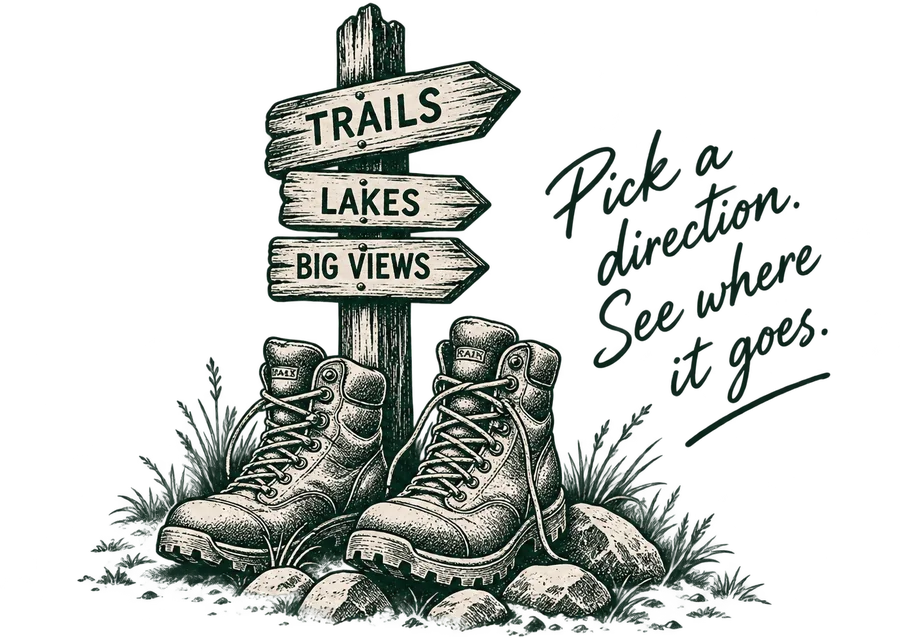
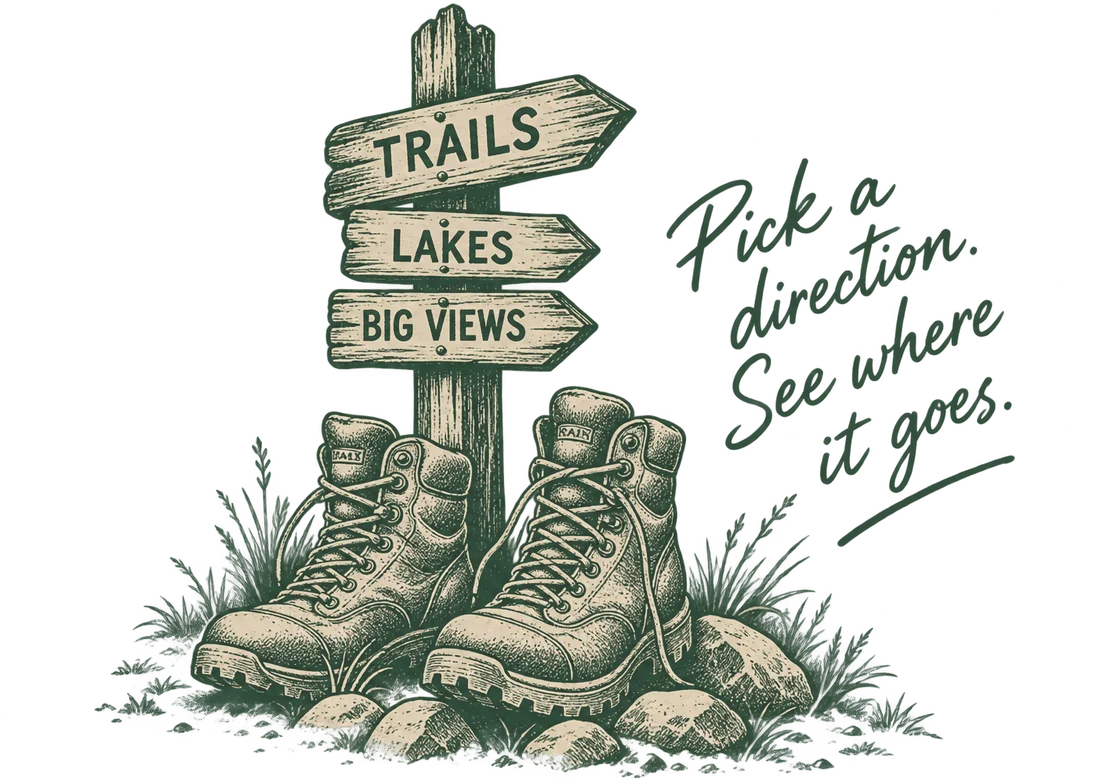
Add files via upload

diff --git a/css/site.css b/css/site.css
@@ -1491,7 +1491,7 @@ body{overscroll-behavior-y:none;background:var(--paper);
 .trailspread .t-route{display:none;width:100%;height:auto;color:var(--gold);
   opacity:.75;grid-row:3}
 .trail-art{display:block;width:100%;height:auto;position:relative;z-index:1}
-.t-signpost{max-width:clamp(190px,26vw,400px)}
+.t-signpost{max-width:clamp(260px,36vw,560px)}
 .t-worth   {max-width:clamp(130px,17vw,250px)}
 .trail-copy{max-width:34ch;position:relative;z-index:1}
 .trail-copy h3{font-family:var(--display);font-weight:400;text-transform:uppercase;
@@ -1504,30 +1504,30 @@ body{overscroll-behavior-y:none;background:var(--paper);
 /* the two prints leant the same way, which read as mechanical. The Rainbow
    print now turns anti-clockwise against the Beef Trail print's clockwise
    lean, on top of the tilt already drawn into each file. */
-.rr-photo{max-width:clamp(150px,20vw,290px);transform:rotate(-2.4deg)}
-.bt-photo{max-width:clamp(115px,12.5vw,180px);transform:rotate(1.9deg)}
+/* the Rainbow print turns hard anti-clockwise against the Beef print's small
+   clockwise lean. At 20deg it swings about 48px above and below its own box,
+   so it carries margin to keep that clear of the route band underneath. */
+.rr-photo{max-width:clamp(180px,24vw,350px);transform:rotate(-20deg)}
+.bt-photo{max-width:clamp(140px,15.5vw,220px);transform:rotate(1.9deg)}
 
 @media (min-width:900px){
-  /* Where the height actually goes: each grid row is as tall as its TALLEST
-     item, so a short text block beside a tall graphic leaves dead space
-     alongside it — 115px in row 1, 117px in row 2, 132px in row 4 at 1440.
-     Halving the gaps between rows, as the previous pass did, could never fix
-     that. The signpost now SPANS rows 1 and 2, so it stops forcing row 1 to
-     its own height, and it sits alongside the Rainbow cluster rather than
-     alone in the corner. The Beef print comes down a little and the two copy
-     blocks are pulled up into the space beside the taller graphics. */
-  .trailspread .t-route{display:block;height:clamp(52px,6vw,96px)}
-  .trailspread .t-intro   {grid-column:2/7;grid-row:1}
-  .trailspread .t-signpost{grid-column:10/13;grid-row:1/3;justify-self:end;
-                           align-self:start;margin-top:clamp(-.5rem,-1vw,0rem)}
-  .trailspread .t-worth   {grid-column:2/4;grid-row:2;align-self:center;
+  /* Photographs pushed out to the outer columns, both paragraphs pulled into
+     the middle between them, and the two rows brought close together so the
+     prints sit almost opposite each other rather than far apart down the page.
+     The signpost is much larger now and takes the upper right on its own. */
+  .trailspread .t-route{display:block;height:clamp(40px,4.5vw,72px)}
+  .trailspread .t-worth   {grid-column:1/3;grid-row:1;align-self:end;
+                           margin-bottom:clamp(-1rem,-2vw,-.4rem)}
+  .trailspread .t-intro   {grid-column:3/8;grid-row:1;align-self:center}
+  .trailspread .t-signpost{grid-column:8/13;grid-row:1;justify-self:end;
                            margin-top:clamp(-1rem,-2vw,-.4rem)}
-  .trailspread .rr-photo  {grid-column:4/7;grid-row:2;margin-top:clamp(0rem,.6vw,.5rem)}
-  .trailspread .rr-copy   {grid-column:7/10;grid-row:2;align-self:center}
-  .trailspread .t-route   {grid-column:4/10;grid-row:3;margin-top:clamp(0rem,.5vw,.5rem)}
-  .trailspread .bt-copy   {grid-column:4/8;grid-row:4;align-self:center}
-  .trailspread .bt-photo  {grid-column:8/11;grid-row:4;
-                           margin-top:clamp(-1.4rem,-2vw,-.6rem)}
+  .trailspread .rr-photo  {grid-column:2/6;grid-row:2;justify-self:start;
+                           margin:clamp(2.6rem,5vw,3.4rem) 0}
+  .trailspread .rr-copy   {grid-column:6/10;grid-row:2;align-self:center}
+  .trailspread .t-route   {grid-column:4/10;grid-row:3}
+  .trailspread .bt-copy   {grid-column:6/10;grid-row:4;align-self:center}
+  .trailspread .bt-photo  {grid-column:10/13;grid-row:4;justify-self:end;
+                           margin-top:clamp(-2rem,-3vw,-1rem)}
 }
 
 @media (max-width:899px){

diff --git a/things-to-do.html b/things-to-do.html
@@ -33,7 +33,7 @@
 <link rel="preconnect" href="https://fonts.googleapis.com">
 <link rel="preconnect" href="https://fonts.gstatic.com" crossorigin>
 <link href="https://fonts.googleapis.com/css2?family=Bevan&family=Oswald:wght@400;500;600&family=Lora:ital,wght@0,400;0,500;0,600;1,400&display=swap" rel="stylesheet">
-<link rel="stylesheet" href="css/site.css?v=8a21ca51">
+<link rel="stylesheet" href="css/site.css?v=7f0f862d">
 
 <script type="application/ld+json">
 {
@@ -96,7 +96,7 @@
           in it.</p>
       </div>
 
-      <img class="trail-art t-signpost" src="images/trail-signpost.webp" width="900" height="638"
+      <img class="trail-art t-signpost" src="images/trail-signpost.webp" width="1100" height="780"
            loading="lazy" decoding="async"
            alt="A weathered wooden signpost pointing to trails, lakes and big views, with a pair
                 of hiking boots at its foot. Pick a direction. See where it goes.">
@@ -495,6 +495,6 @@
 
 
 
-<script src="js/site.js?v=8a21ca51"></script>
+<script src="js/site.js?v=7f0f862d"></script>
 </body>
 </html>

diff --git a/lodge/blue-heron.html b/lodge/blue-heron.html
@@ -33,7 +33,7 @@
 <link rel="preconnect" href="https://fonts.googleapis.com">
 <link rel="preconnect" href="https://fonts.gstatic.com" crossorigin>
 <link href="https://fonts.googleapis.com/css2?family=Bevan&family=Oswald:wght@400;500;600&family=Lora:ital,wght@0,400;0,500;0,600;1,400&display=swap" rel="stylesheet">
-<link rel="stylesheet" href="../css/site.css?v=8a21ca51">
+<link rel="stylesheet" href="../css/site.css?v=7f0f862d">
 
 <script type="application/ld+json">
 {
@@ -216,6 +216,6 @@
   <p class="lb-count" id="lb-count"></p>
 </div>
 
-<script src="../js/site.js?v=8a21ca51"></script>
+<script src="../js/site.js?v=7f0f862d"></script>
 </body>
 </html>

diff --git a/lodge/camping.html b/lodge/camping.html
@@ -33,7 +33,7 @@
 <link rel="preconnect" href="https://fonts.googleapis.com">
 <link rel="preconnect" href="https://fonts.gstatic.com" crossorigin>
 <link href="https://fonts.googleapis.com/css2?family=Bevan&family=Oswald:wght@400;500;600&family=Lora:ital,wght@0,400;0,500;0,600;1,400&display=swap" rel="stylesheet">
-<link rel="stylesheet" href="../css/site.css?v=8a21ca51">
+<link rel="stylesheet" href="../css/site.css?v=7f0f862d">
 
 <script type="application/ld+json">
 {
@@ -198,6 +198,6 @@
   <p class="lb-count" id="lb-count"></p>
 </div>
 
-<script src="../js/site.js?v=8a21ca51"></script>
+<script src="../js/site.js?v=7f0f862d"></script>
 </body>
 </html>

diff --git a/lodge/chilcotin.html b/lodge/chilcotin.html
@@ -33,7 +33,7 @@
 <link rel="preconnect" href="https://fonts.googleapis.com">
 <link rel="preconnect" href="https://fonts.gstatic.com" crossorigin>
 <link href="https://fonts.googleapis.com/css2?family=Bevan&family=Oswald:wght@400;500;600&family=Lora:ital,wght@0,400;0,500;0,600;1,400&display=swap" rel="stylesheet">
-<link rel="stylesheet" href="../css/site.css?v=8a21ca51">
+<link rel="stylesheet" href="../css/site.css?v=7f0f862d">
 
 <script type="application/ld+json">
 {
@@ -218,6 +218,6 @@
   <p class="lb-count" id="lb-count"></p>
 </div>
 
-<script src="../js/site.js?v=8a21ca51"></script>
+<script src="../js/site.js?v=7f0f862d"></script>
 </body>
 </html>

diff --git a/lodge/den-suite.html b/lodge/den-suite.html
@@ -33,7 +33,7 @@
 <link rel="preconnect" href="https://fonts.googleapis.com">
 <link rel="preconnect" href="https://fonts.gstatic.com" crossorigin>
 <link href="https://fonts.googleapis.com/css2?family=Bevan&family=Oswald:wght@400;500;600&family=Lora:ital,wght@0,400;0,500;0,600;1,400&display=swap" rel="stylesheet">
-<link rel="stylesheet" href="../css/site.css?v=8a21ca51">
+<link rel="stylesheet" href="../css/site.css?v=7f0f862d">
 
 <script type="application/ld+json">
 {
@@ -211,6 +211,6 @@
   <p class="lb-count" id="lb-count"></p>
 </div>
 
-<script src="../js/site.js?v=8a21ca51"></script>
+<script src="../js/site.js?v=7f0f862d"></script>
 </body>
 </html>

diff --git a/lodge/eagle-cabin.html b/lodge/eagle-cabin.html
@@ -33,7 +33,7 @@
 <link rel="preconnect" href="https://fonts.googleapis.com">
 <link rel="preconnect" href="https://fonts.gstatic.com" crossorigin>
 <link href="https://fonts.googleapis.com/css2?family=Bevan&family=Oswald:wght@400;500;600&family=Lora:ital,wght@0,400;0,500;0,600;1,400&display=swap" rel="stylesheet">
-<link rel="stylesheet" href="../css/site.css?v=8a21ca51">
+<link rel="stylesheet" href="../css/site.css?v=7f0f862d">
 
 <script type="application/ld+json">
 {
@@ -214,6 +214,6 @@
   <p class="lb-count" id="lb-count"></p>
 </div>
 
-<script src="../js/site.js?v=8a21ca51"></script>
+<script src="../js/site.js?v=7f0f862d"></script>
 </body>
 </html>

diff --git a/lodge/green.html b/lodge/green.html
@@ -33,7 +33,7 @@
 <link rel="preconnect" href="https://fonts.googleapis.com">
 <link rel="preconnect" href="https://fonts.gstatic.com" crossorigin>
 <link href="https://fonts.googleapis.com/css2?family=Bevan&family=Oswald:wght@400;500;600&family=Lora:ital,wght@0,400;0,500;0,600;1,400&display=swap" rel="stylesheet">
-<link rel="stylesheet" href="../css/site.css?v=8a21ca51">
+<link rel="stylesheet" href="../css/site.css?v=7f0f862d">
 
 <script type="application/ld+json">
 {
@@ -216,6 +216,6 @@
   <p class="lb-count" id="lb-count"></p>
 </div>
 
-<script src="../js/site.js?v=8a21ca51"></script>
+<script src="../js/site.js?v=7f0f862d"></script>
 </body>
 </html>

diff --git a/lodge/heritage-1.html b/lodge/heritage-1.html
@@ -33,7 +33,7 @@
 <link rel="preconnect" href="https://fonts.googleapis.com">
 <link rel="preconnect" href="https://fonts.gstatic.com" crossorigin>
 <link href="https://fonts.googleapis.com/css2?family=Bevan&family=Oswald:wght@400;500;600&family=Lora:ital,wght@0,400;0,500;0,600;1,400&display=swap" rel="stylesheet">
-<link rel="stylesheet" href="../css/site.css?v=8a21ca51">
+<link rel="stylesheet" href="../css/site.css?v=7f0f862d">
 
 <script type="application/ld+json">
 {
@@ -241,6 +241,6 @@
   <p class="lb-count" id="lb-count"></p>
 </div>
 
-<script src="../js/site.js?v=8a21ca51"></script>
+<script src="../js/site.js?v=7f0f862d"></script>
 </body>
 </html>

diff --git a/lodge/heritage-2.html b/lodge/heritage-2.html
@@ -33,7 +33,7 @@
 <link rel="preconnect" href="https://fonts.googleapis.com">
 <link rel="preconnect" href="https://fonts.gstatic.com" crossorigin>
 <link href="https://fonts.googleapis.com/css2?family=Bevan&family=Oswald:wght@400;500;600&family=Lora:ital,wght@0,400;0,500;0,600;1,400&display=swap" rel="stylesheet">
-<link rel="stylesheet" href="../css/site.css?v=8a21ca51">
+<link rel="stylesheet" href="../css/site.css?v=7f0f862d">
 
 <script type="application/ld+json">
 {
@@ -231,6 +231,6 @@
   <p class="lb-count" id="lb-count"></p>
 </div>
 
-<script src="../js/site.js?v=8a21ca51"></script>
+<script src="../js/site.js?v=7f0f862d"></script>
 </body>
 </html>

diff --git a/lodge/pelican.html b/lodge/pelican.html
@@ -33,7 +33,7 @@
 <link rel="preconnect" href="https://fonts.googleapis.com">
 <link rel="preconnect" href="https://fonts.gstatic.com" crossorigin>
 <link href="https://fonts.googleapis.com/css2?family=Bevan&family=Oswald:wght@400;500;600&family=Lora:ital,wght@0,400;0,500;0,600;1,400&display=swap" rel="stylesheet">
-<link rel="stylesheet" href="../css/site.css?v=8a21ca51">
+<link rel="stylesheet" href="../css/site.css?v=7f0f862d">
 
 <script type="application/ld+json">
 {
@@ -206,6 +206,6 @@
   <p class="lb-count" id="lb-count"></p>
 </div>
 
-<script src="../js/site.js?v=8a21ca51"></script>
+<script src="../js/site.js?v=7f0f862d"></script>
 </body>
 </html>

diff --git a/lodge/pine.html b/lodge/pine.html
@@ -33,7 +33,7 @@
 <link rel="preconnect" href="https://fonts.googleapis.com">
 <link rel="preconnect" href="https://fonts.gstatic.com" crossorigin>
 <link href="https://fonts.googleapis.com/css2?family=Bevan&family=Oswald:wght@400;500;600&family=Lora:ital,wght@0,400;0,500;0,600;1,400&display=swap" rel="stylesheet">
-<link rel="stylesheet" href="../css/site.css?v=8a21ca51">
+<link rel="stylesheet" href="../css/site.css?v=7f0f862d">
 
 <script type="application/ld+json">
 {
@@ -204,6 +204,6 @@
   <p class="lb-count" id="lb-count"></p>
 </div>
 
-<script src="../js/site.js?v=8a21ca51"></script>
+<script src="../js/site.js?v=7f0f862d"></script>
 </body>
 </html>
